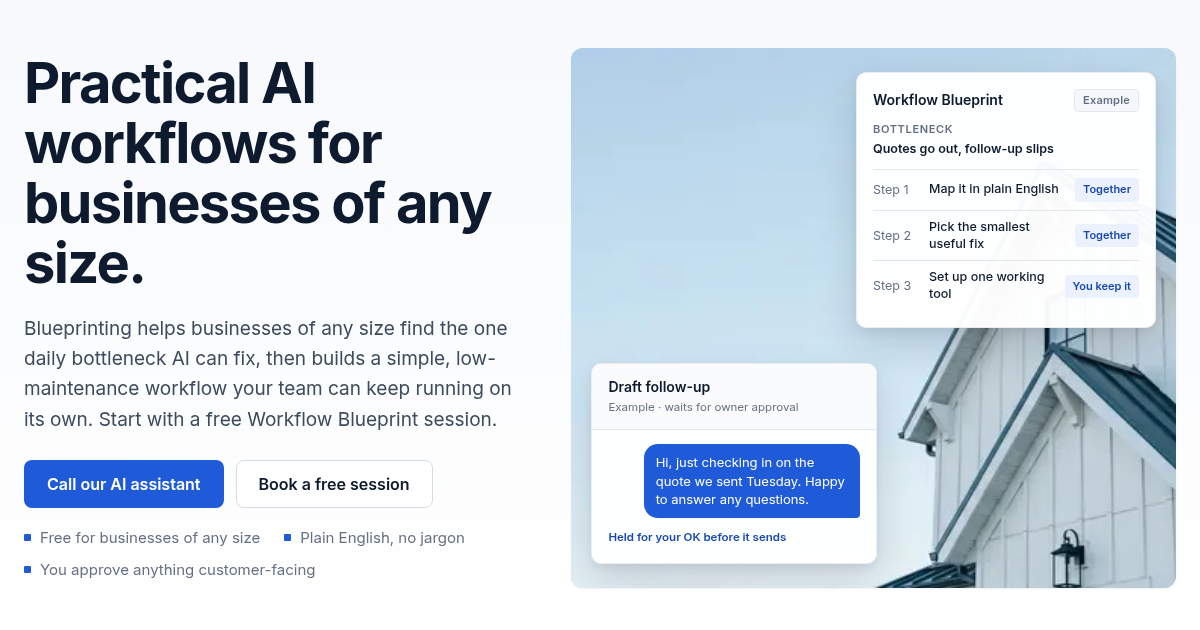
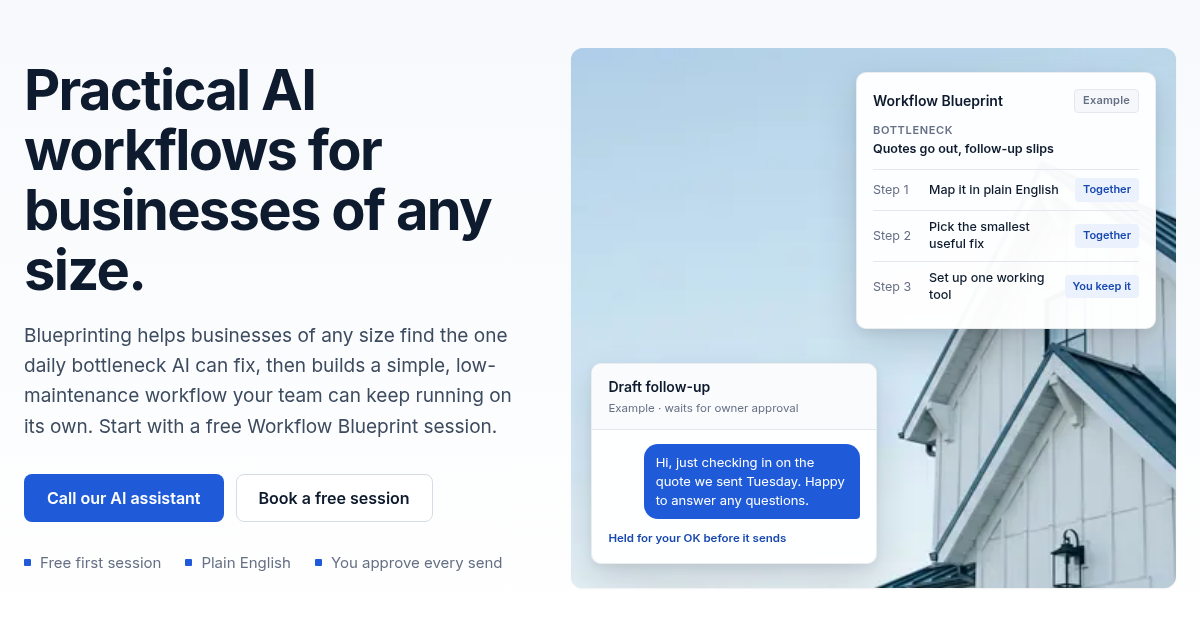
Rework How we work: one numbered process list, plainer copy, drop card grid and repeated steps

diff --git a/index.html b/index.html
@@ -129,14 +129,6 @@
     },
     {
      "@type": "Question",
-     "name": "What happens after the session?",
-     "acceptedAnswer": {
-      "@type": "Answer",
-      "text": "You leave with the working workflow, a short playbook and a simple activity log. We check in after handoff. Anything customer-facing still waits for your approval, and you can pause the workflow or go back to the earlier process if it isn’t helping."
-     }
-    },
-    {
-     "@type": "Question",
      "name": "Will AI contact my customers on its own?",
      "acceptedAnswer": {
       "@type": "Answer",
@@ -261,12 +253,12 @@
       <div class="hero-ctas">
         <a class="btn btn-primary btn-lg" href="tel:+19048097188">Call our AI assistant</a>
         <a class="btn btn-secondary btn-lg" href="mailto:hello@blueprinting.ai?subject=Free%20Workflow%20Blueprint%20session">Book a free session</a>
-        <a class="btn btn-secondary btn-lg" href="#workflows">See example workflows</a>
+        <a class="hero-link" href="#workflows">See example workflows <span aria-hidden="true">&rarr;</span></a>
       </div>
       <ul class="hero-points">
-        <li>Free for businesses of any size</li>
-        <li>Plain English, no jargon</li>
-        <li>You approve anything customer-facing</li>
+        <li>Free first session</li>
+        <li>Plain English</li>
+        <li>You approve every send</li>
       </ul>
     </div>
 
@@ -301,10 +293,11 @@
 <!-- LOCAL STRIP -->
 <section class="strip" aria-label="Who Blueprinting works with">
   <div class="container strip-in">
-    <p class="strip-label">Hands-on AI help for businesses of any size</p>
+    <p class="strip-label">Who we help</p>
     <ul class="strip-list">
       <li>Service businesses</li>
       <li>Independent retailers</li>
+      <li>Business groups</li>
       <li>Teams of any size</li>
     </ul>
   </div>
@@ -347,65 +340,48 @@
 
 <!-- SESSION -->
 <section class="section section-alt" id="session">
-  <div class="container onboard">
-    <div class="onboard-copy">
-      <p class="eyebrow">Free Workflow Blueprint session</p>
-      <h2>Bring your biggest daily bottleneck. Leave with a tool.</h2>
-      <p class="section-sub">A hands-on working session for businesses of any size. It&rsquo;s free, it&rsquo;s in plain English, and no technical background is needed.</p>
-      <div class="session-ctas">
-        <a class="btn btn-primary" href="tel:+19048097188">Call our AI assistant</a>
-        <a class="btn btn-secondary" href="mailto:hello@blueprinting.ai?subject=Free%20Workflow%20Blueprint%20session">Book a free session</a>
-      </div>
-      <p class="session-note">We work with service businesses, independent retailers, teams, and groups such as chambers of commerce.</p>
+  <div class="container session-band">
+    <div class="session-copy">
+      <p class="eyebrow">Free workshop</p>
+      <h2>Bring one bottleneck. Leave with one working tool.</h2>
+      <p class="section-sub">A hands-on Workflow Blueprint session, in plain English. No technical background needed.</p>
     </div>
-    <ol class="timeline">
-      <li>
-        <h3>Assess the bottleneck</h3>
-        <p>You bring the task that eats your week. We map how the work happens today and agree, before anything is built, what the workflow may do on its own and what waits for your okay.</p>
-      </li>
-      <li>
-        <h3>Build the smallest useful fix</h3>
-        <p>We choose the simplest workflow that solves the problem, using the inbox, spreadsheets, phone system or no-code tools you already have wherever possible.</p>
-      </li>
-      <li>
-        <h3>Hand it off with a playbook</h3>
-        <p>You leave with a working, low-maintenance tool and a short handoff document so your team can run it without a developer.</p>
-      </li>
-      <li>
-        <h3>Monitor and adjust</h3>
-        <p>A simple activity log shows what ran and what is waiting on you. We check in after handoff, and you can pause the workflow or go back to the earlier process if it isn&rsquo;t helping.</p>
-      </li>
-    </ol>
+    <div class="session-side">
+      <div class="session-ctas">
+        <a class="btn btn-primary" href="mailto:hello@blueprinting.ai?subject=Free%20Workflow%20Blueprint%20session">Book a free session</a>
+        <a class="btn btn-secondary" href="tel:+19048097188">Call our AI assistant</a>
+      </div>
+      <p class="session-note">For service businesses, independent retailers, teams and business groups.</p>
+    </div>
   </div>
 </section>
 
-
-<!-- HOW WE DELIVER -->
-<section class="section" id="delivery">
-  <div class="container">
-    <div class="section-head center">
-      <p class="eyebrow">How we deliver</p>
-      <h2>Built to be trusted, not left on autopilot.</h2>
-      <p class="section-sub">A workflow only helps if you can see what it did, keep a person in charge of anything that reaches a customer, and stop or change it when it isn&rsquo;t working.</p>
+<!-- HOW WE WORK -->
+<section class="section" id="process">
+  <div class="container process">
+    <div class="process-head">
+      <p class="eyebrow">How we work</p>
+      <h2>You stay in charge.</h2>
+      <p class="section-sub">How a workflow gets built, handed over and checked.</p>
     </div>
-    <div class="trust-grid four">
-      <article class="trust-card">
-        <h3>Your approval comes first</h3>
-        <p>Anything customer-facing starts as a draft and waits for your okay before it sends. We write down those limits before the workflow goes live.</p>
-      </article>
-      <article class="trust-card">
-        <h3>It uses the tools you already have</h3>
-        <p>We work in your inbox, spreadsheets, phone system or no-code tools wherever we can. Your information stays in the systems you already use, and we don&rsquo;t take over your logins.</p>
-      </article>
-      <article class="trust-card">
-        <h3>A simple record of what it did</h3>
-        <p>You get an activity log you can review: what ran, when, and what is waiting on you. No hidden steps.</p>
-      </article>
-      <article class="trust-card">
-        <h3>A playbook, then a check-in</h3>
-        <p>You leave with a short handoff document. We follow up to see whether the workflow is still doing the job, and we&rsquo;ll tighten, pause or revert it if it isn&rsquo;t.</p>
-      </article>
-    </div>
+    <ol class="process-list">
+      <li>
+        <h3>Assess</h3>
+        <p>We map how the work happens today, then agree what the workflow can do on its own and what waits for your okay.</p>
+      </li>
+      <li>
+        <h3>Build</h3>
+        <p>The smallest fix that works, in the tools you already use. Anything customer-facing starts as a draft you approve.</p>
+      </li>
+      <li>
+        <h3>Hand off</h3>
+        <p>You get the working tool and a short playbook your team can run without us.</p>
+      </li>
+      <li>
+        <h3>Monitor</h3>
+        <p>An activity log shows what ran. We check in after launch, and you can pause it or go back to how you did it before.</p>
+      </li>
+    </ol>
   </div>
 </section>
 
@@ -702,10 +678,6 @@
         <p>Not by default. Anything customer-facing starts as a draft for you to approve. The one automatic message is missed-call text-back, and it only replies to people who called your shop first.</p>
       </details>
       <details>
-        <summary>What happens after the session?</summary>
-        <p>You leave with the working workflow, a short playbook and a simple activity log. We check in after handoff. Anything customer-facing still waits for your approval, and you can pause the workflow or go back to the earlier process if it isn&rsquo;t helping.</p>
-      </details>
-      <details>
         <summary>Text-back: Do I need a new phone number?</summary>
         <p>No. Customers keep calling the number they already have. Calls you don&rsquo;t answer forward to a dedicated local Blueprinting text line, which texts the caller back with your shop&rsquo;s name in the message. The text comes from that line, not from your shop&rsquo;s own number.</p>
       </details>
@@ -843,7 +815,7 @@
         <h4>Studio</h4>
         <a href="#studio">What we build</a>
         <a href="#session">Free workshop</a>
-        <a href="#delivery">How we deliver</a>
+        <a href="#process">How we work</a>
         <a href="#workflows">Example workflows</a>
         <a href="#faq">FAQ</a>
       </div>

diff --git a/styles.css b/styles.css
@@ -91,6 +91,9 @@ h3{font-size:20px;line-height:1.3;letter-spacing:-.01em}
 .hero-grid{display:grid;grid-template-columns:minmax(0,.95fr) minmax(0,1.15fr);gap:48px;align-items:center}
 .hero-copy{animation:fade .5s ease-out both}
 .hero-ctas{display:flex;flex-wrap:wrap;gap:12px;margin-top:32px}
+.hero-ctas{align-items:center}
+.hero-link{font-size:15.5px;font-weight:600;color:var(--accent);padding:0 8px}
+.hero-link:hover{color:var(--accent-dark);text-decoration:underline;text-underline-offset:3px}
 .hero-points{display:flex;flex-wrap:wrap;gap:8px 24px;margin-top:28px;font-size:15px;color:var(--muted)}
 .hero-points li{position:relative;padding-left:16px}
 .hero-points li::before{content:"";position:absolute;left:0;top:50%;width:7px;height:7px;margin-top:-3.5px;background:var(--accent);border-radius:1px}
@@ -219,6 +222,22 @@ h3{font-size:20px;line-height:1.3;letter-spacing:-.01em}
 .area-line{margin-top:32px;font-size:15.5px;color:var(--text)}
 .area-line strong{color:var(--ink)}
 
+/* Session band and process */
+.session-band{display:grid;grid-template-columns:minmax(0,1.25fr) minmax(0,.75fr);gap:72px;align-items:end}
+.session-band h2{font-size:40px;letter-spacing:-.03em;text-wrap:balance;max-width:20ch}
+.session-band .section-sub{max-width:46ch}
+.session-side .session-ctas{margin-top:0}
+.session-side .session-note{margin-top:18px;max-width:34ch}
+.process{display:grid;grid-template-columns:minmax(0,.8fr) minmax(0,1.2fr);gap:96px;align-items:start}
+.process-head{position:sticky;top:112px}
+.process-head h2{font-size:48px;line-height:1.05;letter-spacing:-.035em;text-wrap:balance}
+.process-head .section-sub{max-width:28ch;font-size:17px;color:var(--muted)}
+.process-list{counter-reset:p;border-bottom:1px solid var(--line-2)}
+.process-list li{counter-increment:p;display:grid;grid-template-columns:56px minmax(0,1fr);column-gap:8px;padding:30px 0 32px;border-top:1px solid var(--line-2)}
+.process-list li::before{content:counter(p,decimal-leading-zero);grid-row:span 2;padding-top:5px;font-size:13px;font-weight:600;letter-spacing:.08em;color:var(--accent);font-variant-numeric:tabular-nums}
+.process-list h3{font-size:24px;line-height:1.2;letter-spacing:-.02em}
+.process-list p{margin-top:8px;font-size:17px;line-height:1.55;color:var(--text);max-width:50ch;text-wrap:pretty}
+
 /* Onboarding */
 .onboard{display:grid;grid-template-columns:1fr 1.2fr;gap:72px;align-items:start}
 .onboard-copy .btn{margin-top:28px}
@@ -234,7 +253,6 @@ h3{font-size:20px;line-height:1.3;letter-spacing:-.01em}
 /* Trust */
 .anchor-alias{display:block}
 .trust-grid{display:grid;grid-template-columns:repeat(3,1fr);gap:24px}
-.trust-grid.four{grid-template-columns:repeat(2,1fr);gap:24px}
 .trust-card{border:1px solid var(--line);border-radius:var(--radius);padding:28px 26px;background:#fff}
 .trust-card h3{font-size:18px}
 .trust-card p{margin-top:10px;font-size:15.5px}
@@ -330,7 +348,6 @@ input[type=range]{width:100%;accent-color:var(--accent);margin:0;height:20px}
 
 /* Responsive */
 @media (max-width:1100px){
-  .trust-grid.four{grid-template-columns:repeat(2,1fr)}
   .nav-phone{display:none}
   .nav-links{gap:22px}
   h1{font-size:48px}
@@ -376,8 +393,11 @@ input[type=range]{width:100%;accent-color:var(--accent);margin:0;height:20px}
   .steps{grid-template-columns:1fr 1fr}
   .ind-grid{grid-template-columns:1fr;gap:20px}
   .onboard{grid-template-columns:1fr;gap:40px}
+  .session-band{grid-template-columns:1fr;gap:28px;align-items:start}
+  .process{grid-template-columns:1fr;gap:40px}
+  .process-head{position:static}
+  .process-head h2{font-size:40px}
   .trust-grid{grid-template-columns:1fr;gap:16px}
-  .trust-grid.four{grid-template-columns:repeat(2,1fr);gap:16px}
   .mod-grid{grid-template-columns:1fr 1fr;gap:16px}
   .ui-plan{width:100%}
   .pricing{grid-template-columns:1fr}
@@ -392,11 +412,16 @@ input[type=range]{width:100%;accent-color:var(--accent);margin:0;height:20px}
   .mbar .btn{min-width:0;width:100%;white-space:normal;line-height:1.25;padding-left:12px;padding-right:12px}
 }
 @media (max-width:560px){
-  .trust-grid.four{grid-template-columns:1fr}
   .container{padding:0 20px}
+  .session-band h2{font-size:30px}
+  .process-head h2{font-size:34px}
+  .process-list li{grid-template-columns:40px minmax(0,1fr);padding:24px 0 26px}
+  .process-list h3{font-size:21px}
+  .process-list p{font-size:16px}
   h1{font-size:36px}
   h2{font-size:28px}
   .hero-ctas .btn{width:100%}
+  .hero-link{padding:6px 0}
   .hero-visual{padding:16px}
   .steps{grid-template-columns:1fr}
   .phone{width:100%}
